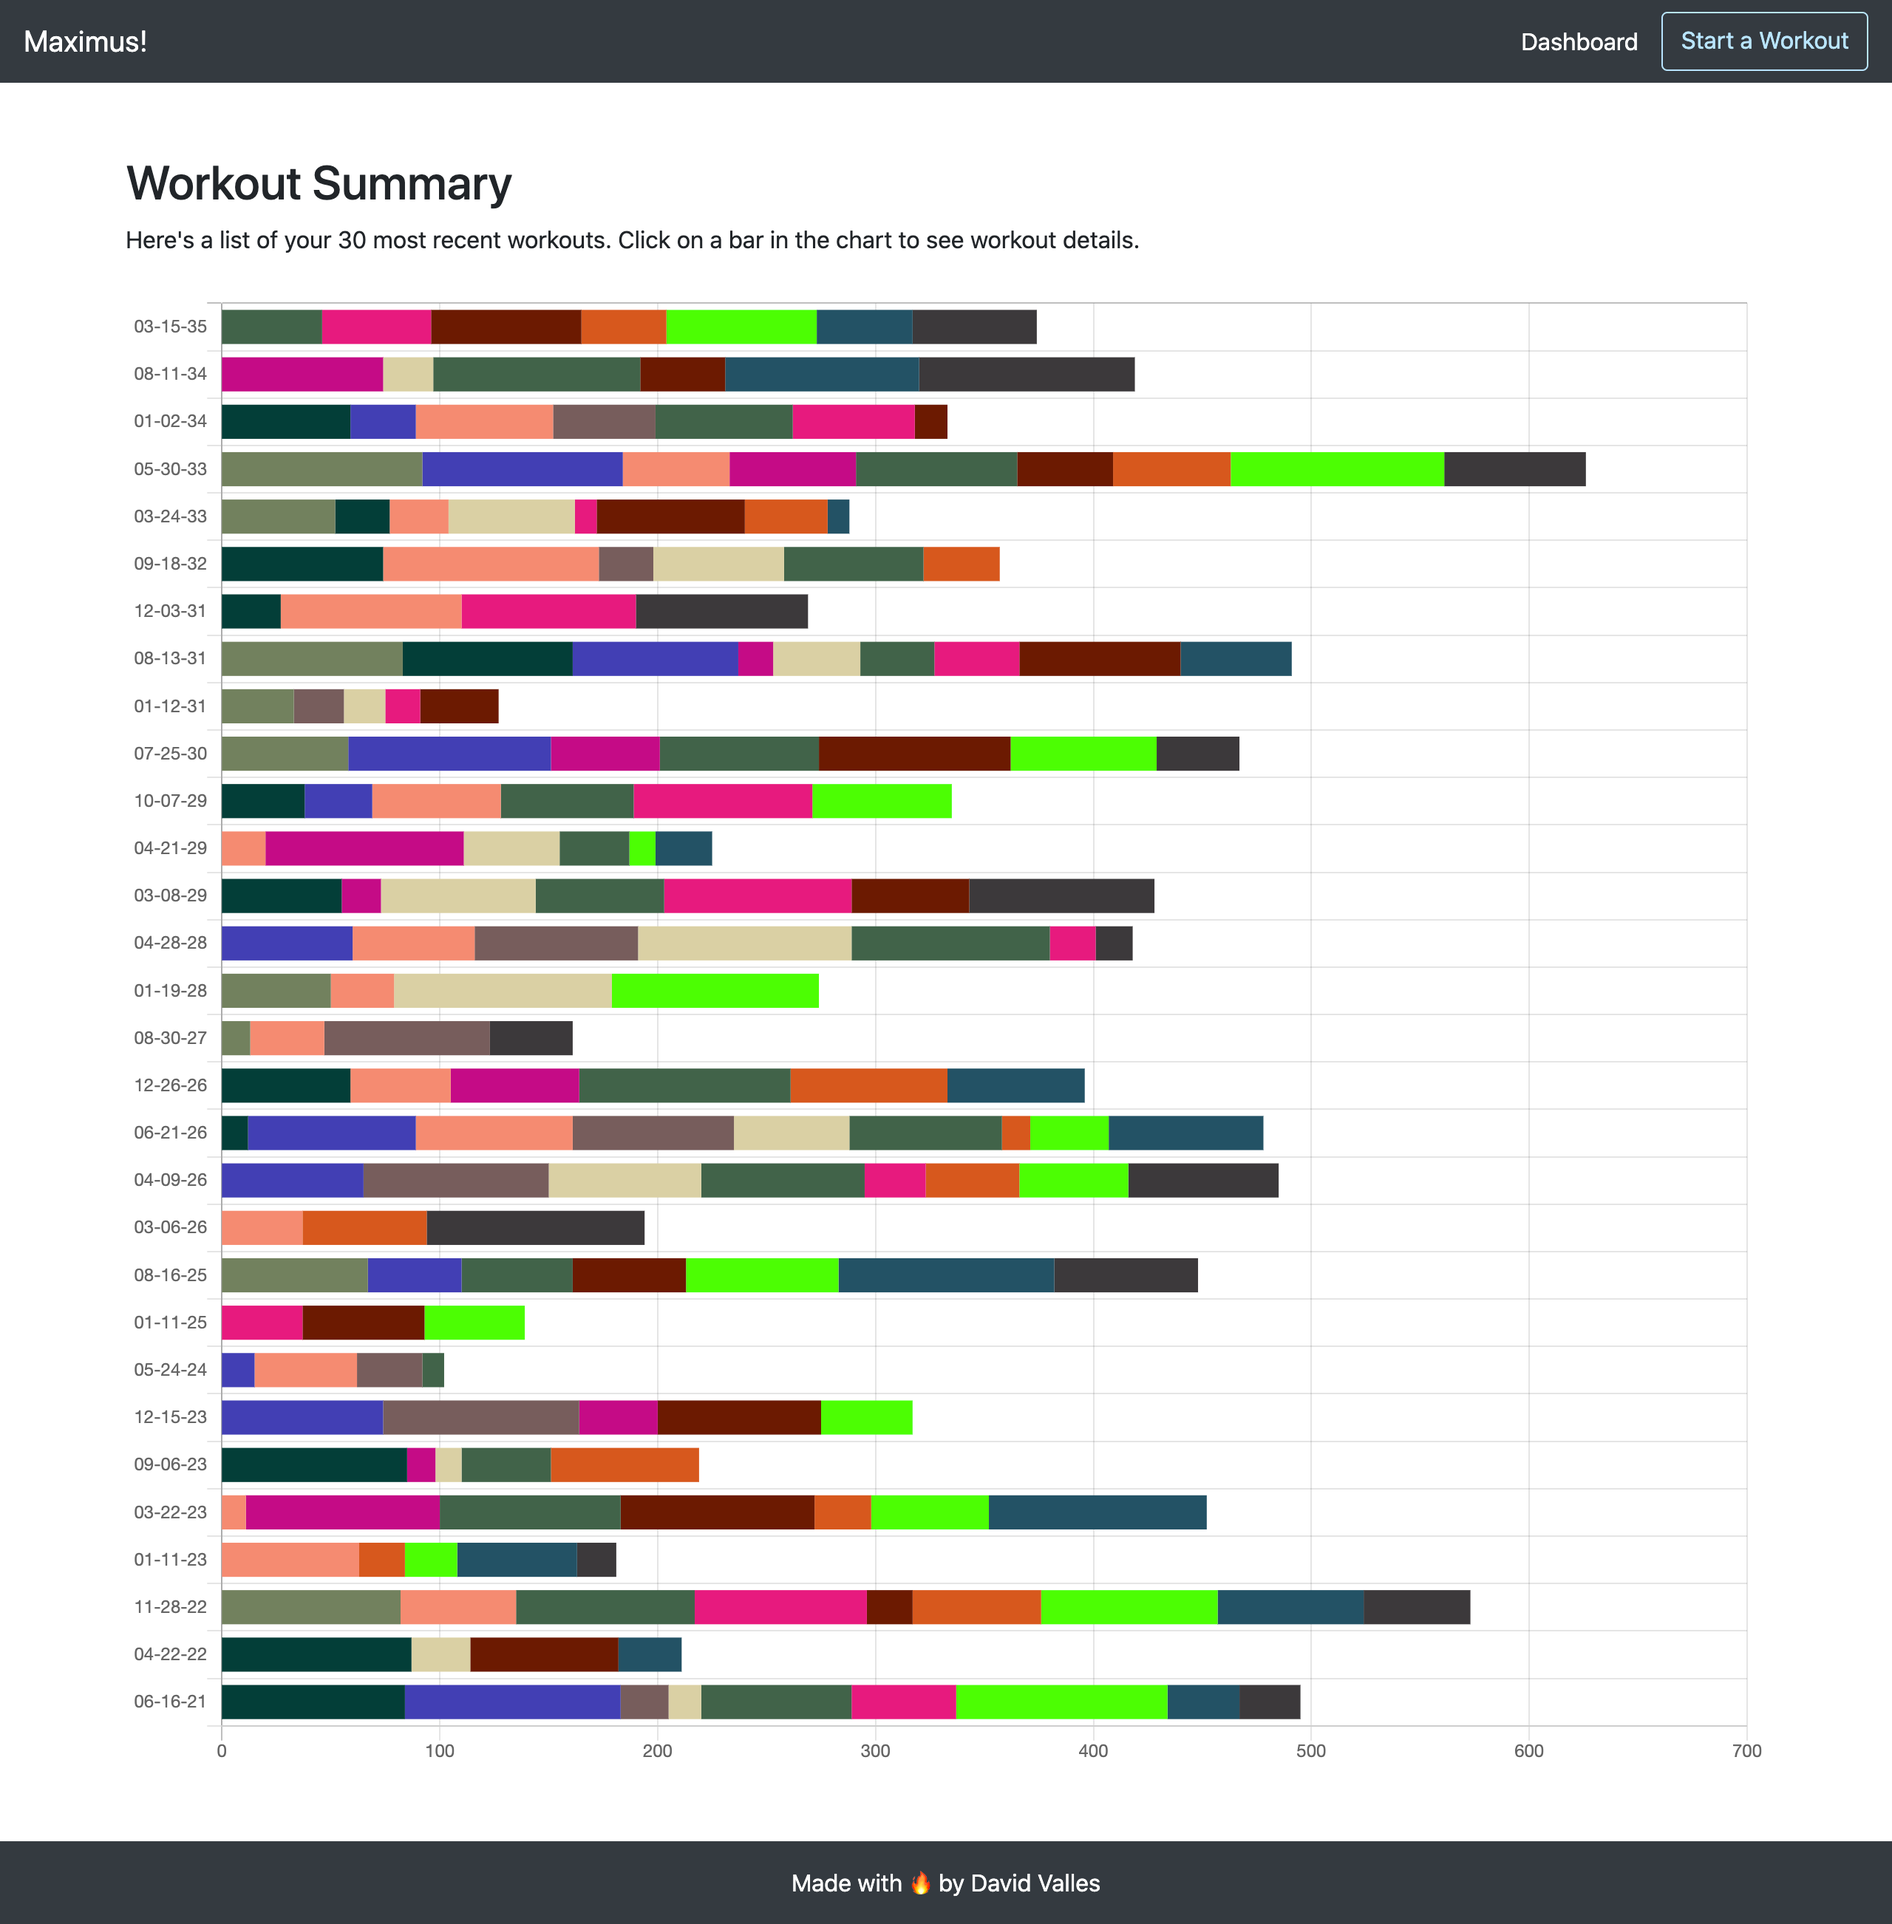
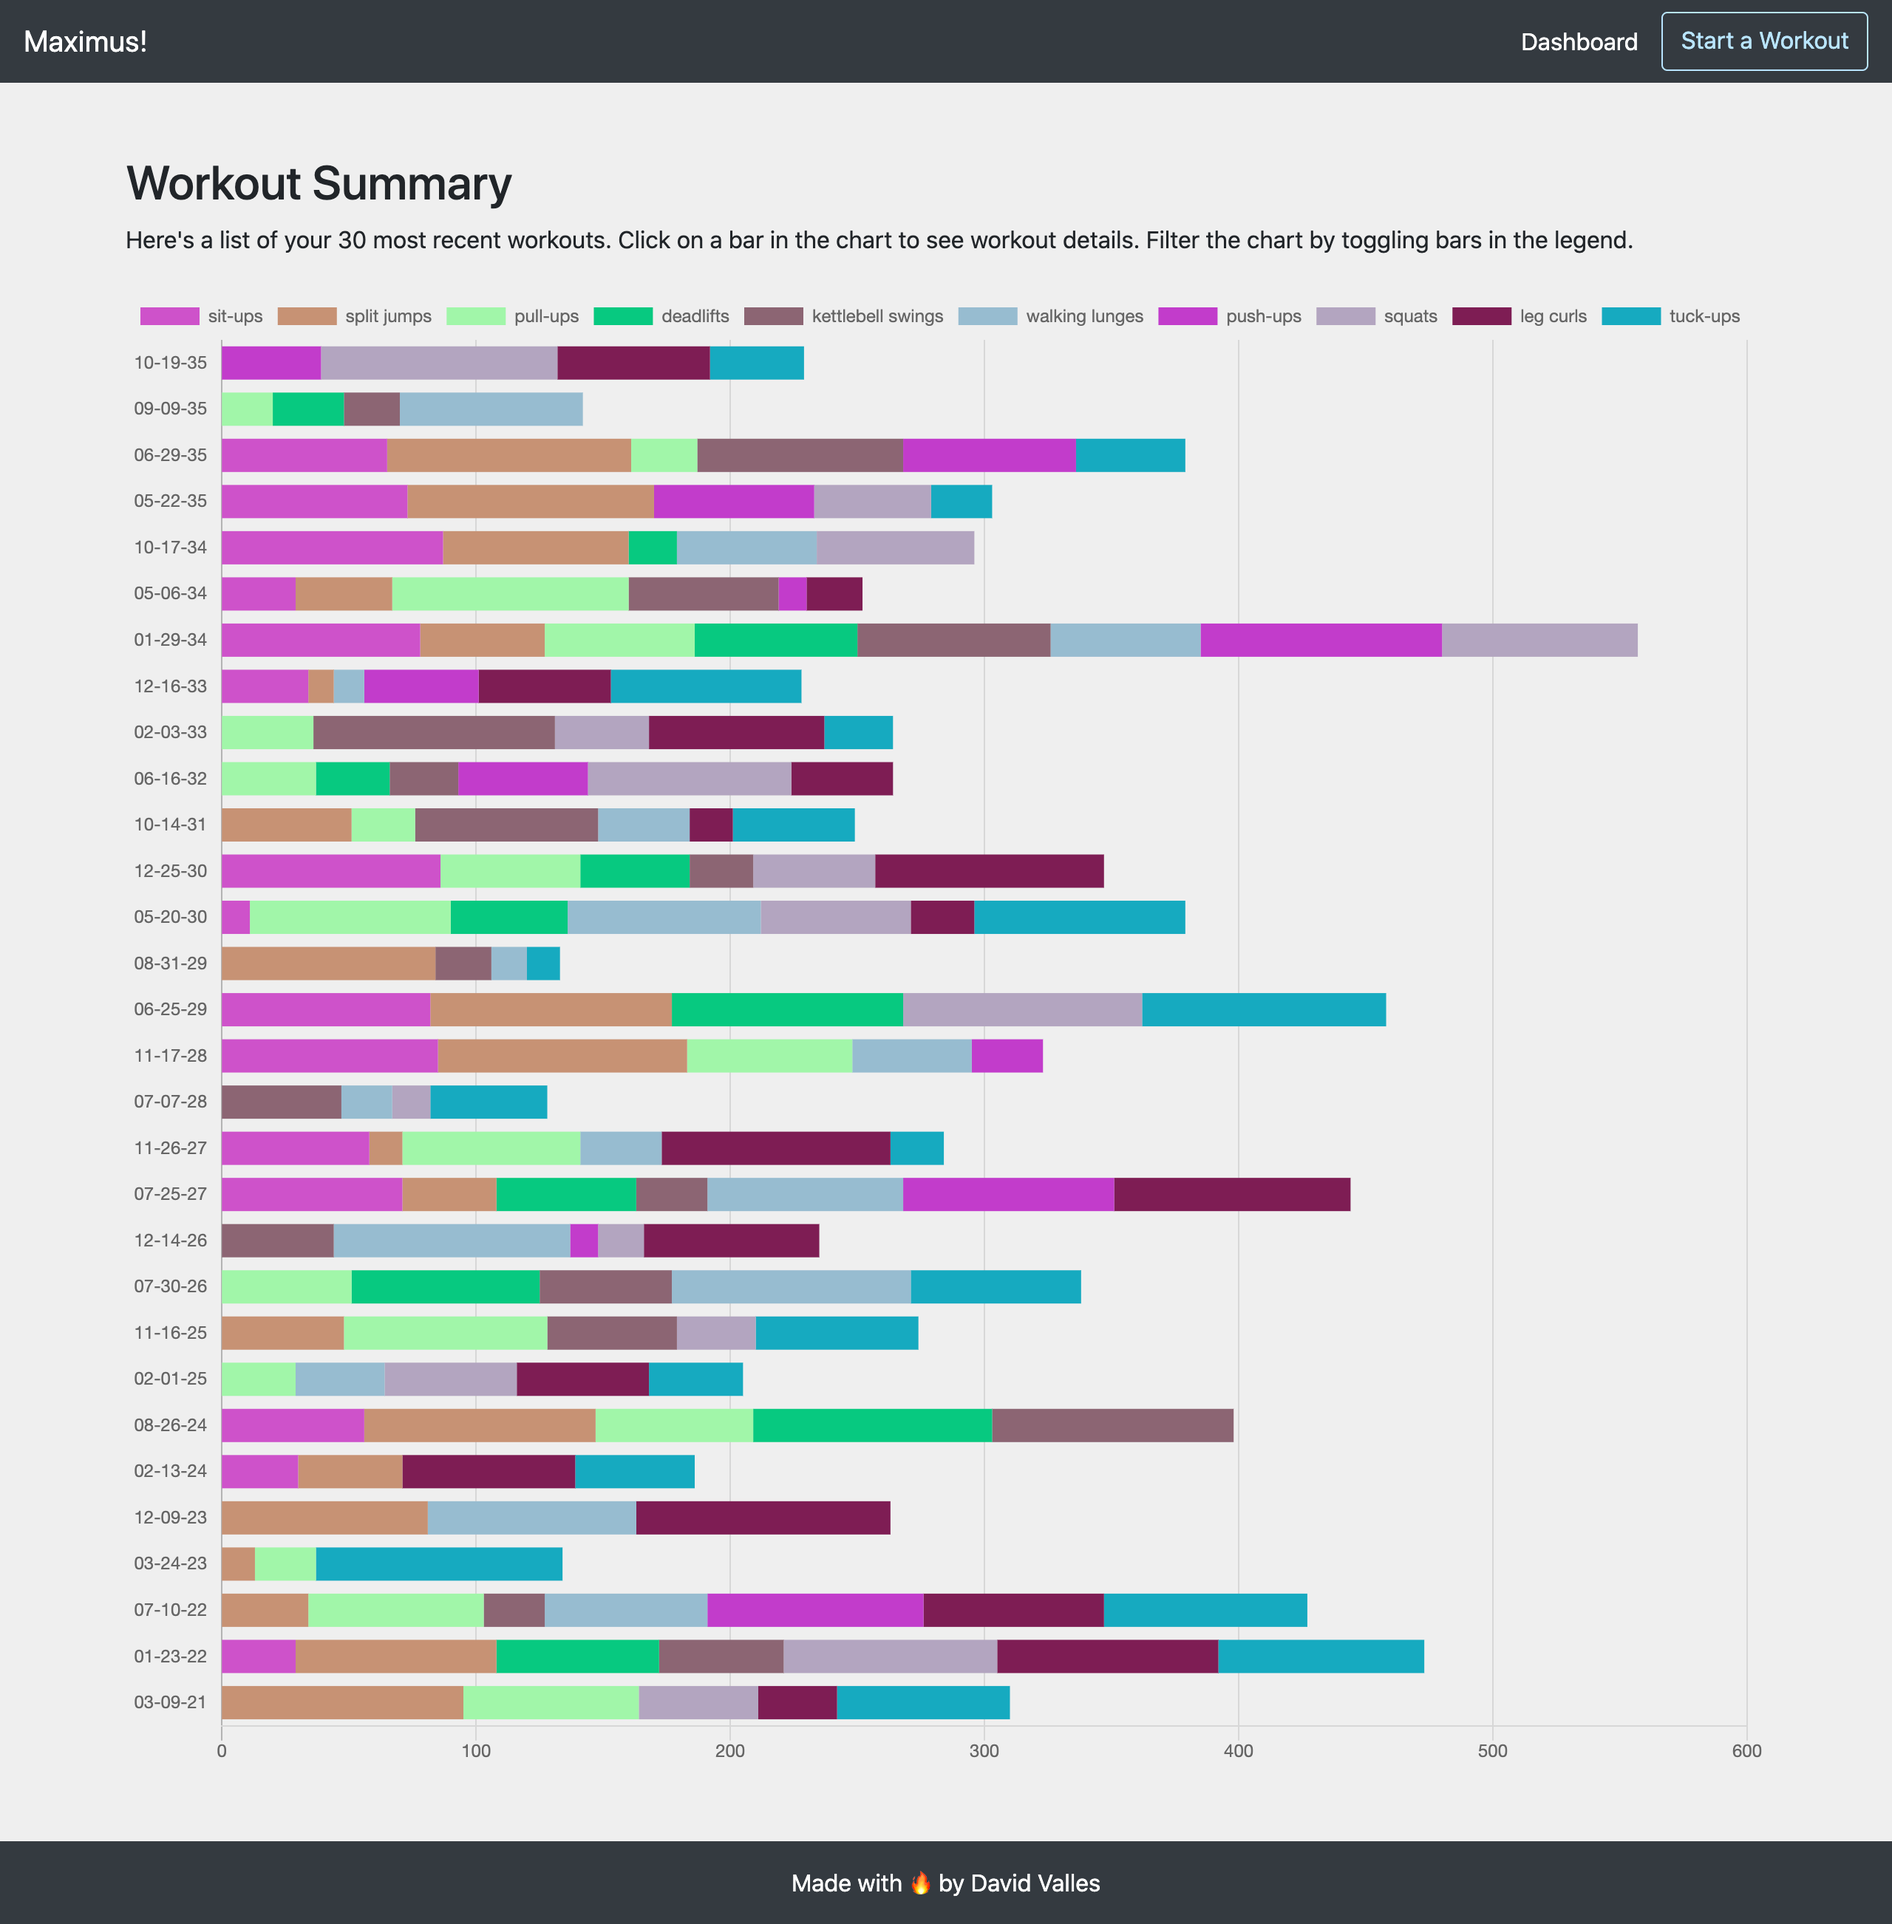
Update images & content

diff --git a/src/pages/Workout.js b/src/pages/Workout.js
@@ -9,7 +9,7 @@ import { v4 as uuid } from "uuid";
 import { useHistory } from "react-router-dom";
 import { NavBar } from "../components/NavBar";
 import { Footer } from "../components/Footer";
-import { EXERCISE_LIBRARY } from "../utils/libs";
+import { genRandomExerciseList, MAX_NUM_EXERCISES } from "../utils/libs";
 
 const init = ({ exercises }) => {
   return exercises.map((exercise) => ({ id: uuid(), name: exercise, reps: 0 }));
@@ -19,12 +19,18 @@ export const Workout = () => {
   const history = useHistory();
   const [newExercise, setNewExercise] = useState("");
   const [exercises, setExercises] = useState(() =>
-    init({ exercises: EXERCISE_LIBRARY })
+    init({ exercises: genRandomExerciseList() })
   );
 
+  const isListFull = () => exercises.length === MAX_NUM_EXERCISES;
+  const isNewExerciseEmpty = () =>
+    newExercise === "" || newExercise === undefined || newExercise === null;
+
   const handleAddExercise = () => {
-    setExercises([...exercises, { id: uuid(), name: newExercise, reps: 0 }]);
-    setNewExercise("");
+    if (!isListFull() && !isNewExerciseEmpty()) {
+      setExercises([{ id: uuid(), name: newExercise, reps: 0 }, ...exercises]);
+      setNewExercise("");
+    }
   };
 
   const handleRemoveExercise = (id) => {
@@ -44,7 +50,7 @@ export const Workout = () => {
   };
 
   const handleReset = () => {
-    setExercises(init({ exercises: EXERCISE_LIBRARY }));
+    setExercises(init({ exercises: genRandomExerciseList() }));
     setNewExercise("");
   };
 
@@ -67,8 +73,13 @@ export const Workout = () => {
                       <Form.Control
                         type="text"
                         value={newExercise}
-                        placeholder="Add a new exercise"
+                        placeholder={
+                          exercises.length === MAX_NUM_EXERCISES
+                            ? "Maximum number of exercises reached"
+                            : "Add a new exercise"
+                        }
                         onChange={({ target }) => setNewExercise(target.value)}
+                        disabled={exercises.length === MAX_NUM_EXERCISES}
                       />
                     </Form.Group>
                   </Col>

diff --git a/src/pages/Home.js b/src/pages/Home.js
@@ -22,11 +22,16 @@ export const Home = () => {
               xs={12}
               md={6}
             >
-              <h1>Welcome to Maximus!</h1>
+              <h1>Welcome to Maximus</h1>
               <p className="lead">
-                Lorem ipsum dolor sit amet, consectetur adipiscing elit, sed do
-                eiusmod tempor incididunt ut labore et dolore magna aliqua. Ut
-                enim ad minim
+                Maximus is an ultra minimal workout tracker. Inspired during
+                COVID-19 and my lack of available strength equipment, I relied
+                on rep count as my progression and intensity gauge.
+              </p>
+              <p className="lead">
+                Easily add and remove exercises from your workout. Use the
+                sliders to to quickly record reps completed, save the workout
+                and head to the Dashboard.
               </p>
               <div>
                 <LinkContainer to="/workout">
@@ -50,9 +55,13 @@ export const Home = () => {
             >
               <h1>Visualize Workouts</h1>
               <p className="lead">
-                Lorem ipsum dolor sit amet, consectetur adipiscing elit, sed do
-                eiusmod tempor incididunt ut labore et dolore magna aliqua. Ut
-                enim ad minim
+                Maximus renders your last 30 workouts in rainbow of bars. Hover
+                over any bar for a snapshot of that day's workout details.
+              </p>
+              <p className="lead">
+                Out of the box, Maximus reports all exercises. To filter out an
+                exercise and simplify the chart, click on an exercise in the
+                legend and watch the chart dynamically update.
               </p>
               <div>
                 <LinkContainer to="/dashboard">

diff --git a/src/utils/libs.js b/src/utils/libs.js
@@ -3,21 +3,18 @@ import moment from "moment";
 import { Random } from "random-js";
 
 export const EXERCISE_LIBRARY = [
-  "air squats",
-  "w.lunges",
-  "b.lunges",
+  "deadlifts",
+  "kettlebell swings",
+  "leg curls",
   "push-ups",
   "pull-ups",
-  "tuck-ups",
-  "deadlifts",
-  "rows",
-  "tricep ext",
-  "chin-ups",
+  "sit-ups",
   "split jumps",
-  "leg curls",
-  "kb swings",
-  "mtn climbers",
-].sort();
+  "squats",
+  "tuck-ups",
+  "walking lunges",
+];
+export const MAX_NUM_EXERCISES = 10;
 const random = new Random();
 const today = moment();
 
@@ -62,7 +59,7 @@ const uniqifyByExerciseName = (result, wod) => {
  * ]
  */
 const createExerciseList = () => {
-  const exercisesByName = new Array(random.integer(5, EXERCISE_LIBRARY.length))
+  const exercisesByName = new Array(random.integer(5, MAX_NUM_EXERCISES))
     .fill({})
     .map(createExercise)
     .reduce(uniqifyByExerciseName, {});
@@ -165,3 +162,17 @@ export const genLabels = (wods) =>
   wods.map((wod) => moment(wod.date).format("MM-DD-YY"));
 
 export const genDatasets = (wods) => createDatasets(wods);
+
+export const genRandomExerciseList = (max = 6) => {
+  const result = [];
+  let idx = 0;
+  const exercises = EXERCISE_LIBRARY.slice();
+
+  for (let i = 0; i < max; i += 1) {
+    idx = random.integer(0, exercises.length - 1);
+    result.push(exercises[idx]);
+    exercises.splice(idx, 1);
+  }
+
+  return result;
+};

diff --git a/src/pages/Dashboard.js b/src/pages/Dashboard.js
@@ -64,7 +64,8 @@ export const Dashboard = () => {
             <h2>Workout Summary</h2>
             <p>
               Here's a list of your {data.labels.length} most recent workouts.
-              Click on a bar in the chart to see workout details.
+              Click on a bar in the chart to see workout details. Filter the
+              chart by toggling bars in the legend.
             </p>
             <div
               className="position-relative mt-4"

diff --git a/src/components/NavBar.js b/src/components/NavBar.js
@@ -13,7 +13,7 @@ export const NavBar = () => {
   return (
     <>
       <Navbar className="justify-content-between" bg="dark" variant="dark">
-        <Navbar.Brand href="/">Maximus!</Navbar.Brand>
+        <Navbar.Brand href="/">Maximus</Navbar.Brand>
         <Nav>
           <LinkContainer
             to="/dashboard"

diff --git a/src/styles/custom.scss b/src/styles/custom.scss
@@ -2,4 +2,5 @@
 @import "utils";
 @import "colors";
 @import "icons";
+@import "canvas";
 @import "~bootstrap/scss/bootstrap";

diff --git a/src/styles/canvas.scss b/src/styles/canvas.scss
@@ -1,0 +1,5 @@
+canvas {
+  &:hover {
+    cursor: pointer;
+  }
+}
